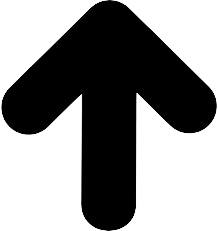
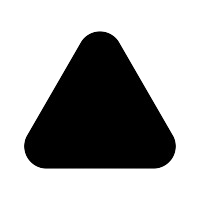
nice

diff --git a/server.js b/server.js
@@ -8,7 +8,7 @@ const GAMES_DIR = path.join(ROOT_DIR, "games");
 const PUBLIC_DIR = path.join(ROOT_DIR, "public");
 const HOST = process.env.HOST || "127.0.0.1";
 const PORT = Number(process.env.PORT || 3000);
-const MAZE_LEVEL_GRID_SIZE = 25;
+const MAZE_LEVEL_GRID_SIZE = 26;
 
 function escapeHtml(value) {
   return String(value)

diff --git a/games/maze/player.py b/games/maze/player.py
@@ -7,7 +7,7 @@ from typing import Any
 from games.shared import GridWorld, Sprite
 
 MAZE_DIR = Path(__file__).resolve().parent
-MAZE_LEVEL_GRID_SIZE = 25
+MAZE_LEVEL_GRID_SIZE = 26
 
 
 def config_tokens(config: dict[str, Any]) -> list[str]: